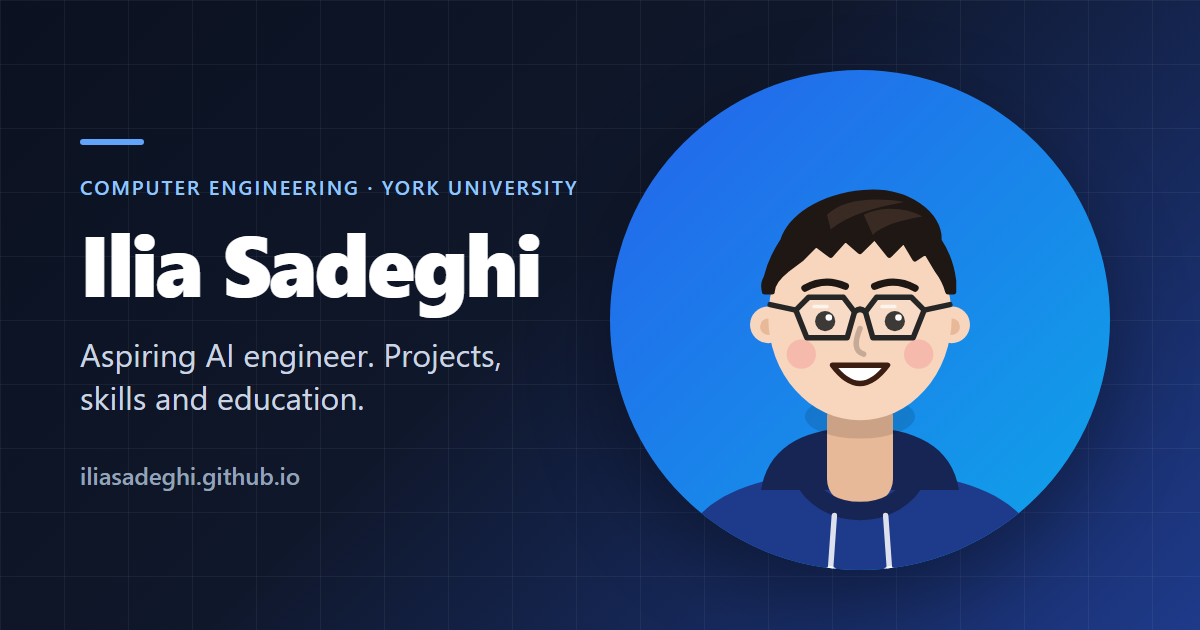
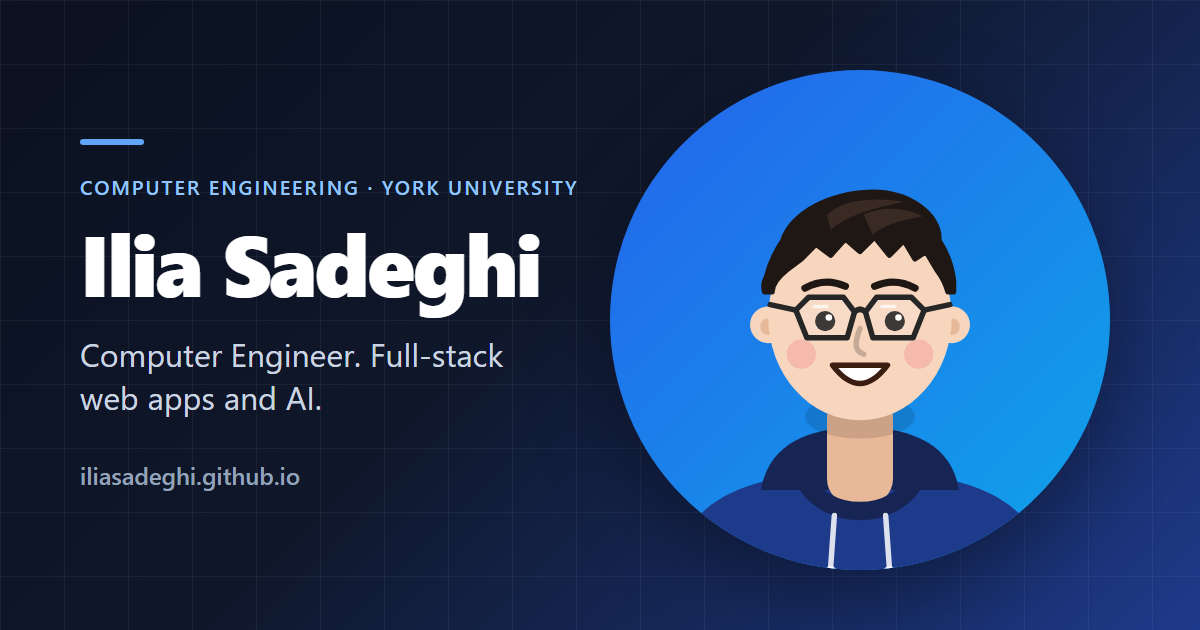
Present as Computer Engineer and update PitchIQ
- Hero, About, meta tags and preview image now say "Computer Engineer at York University"
- Remove first-year, age and "aspiring" wording; replace stats with York U, full-stack stack and live project count
- Education: drop dates, year status and coursework; "Currently learning" becomes "Focus areas"
- Contact and portrait badge: open to opportunities
- PitchIQ: new screenshot and description for the competitive quiz redesign

Changed region(s): [[0.0617, 0.5429, 0.4317, 0.6635]]

diff --git a/index.html b/index.html
@@ -3,8 +3,8 @@
 <head>
   <meta charset="utf-8">
   <meta name="viewport" content="width=device-width, initial-scale=1">
-  <title>Ilia Sadeghi | Computer Engineering Student &amp; Project Portfolio</title>
-  <meta name="description" content="Portfolio of Ilia Sadeghi, a first-year computer engineering student at York University who builds things and aims to become an AI engineer.">
+  <title>Ilia Sadeghi | Computer Engineer</title>
+  <meta name="description" content="Portfolio of Ilia Sadeghi, a computer engineer at York University who builds full-stack web applications with React, TypeScript and Supabase, with a focus on artificial intelligence.">
   <meta name="theme-color" content="#f8fafc" media="(prefers-color-scheme: light)">
   <meta name="theme-color" content="#0b1120" media="(prefers-color-scheme: dark)">
   <meta name="author" content="Ilia Sadeghi">
@@ -14,15 +14,15 @@
   <!-- Open Graph / Twitter -->
   <meta property="og:type" content="website">
   <meta property="og:title" content="Ilia Sadeghi | Project Portfolio">
-  <meta property="og:description" content="First-year computer engineering student who builds things. Explore my projects.">
+  <meta property="og:description" content="Computer engineer at York University building full-stack web apps with React, TypeScript and Supabase. Explore my projects.">
   <meta property="og:url" content="https://iliasadeghi.github.io/">
   <meta property="og:image" content="https://iliasadeghi.github.io/assets/images/og-image.png">
   <meta property="og:image:width" content="1200">
   <meta property="og:image:height" content="630">
-  <meta property="og:image:alt" content="Ilia Sadeghi, computer engineering student who builds things">
+  <meta property="og:image:alt" content="Ilia Sadeghi, computer engineer at York University">
   <meta name="twitter:card" content="summary_large_image">
   <meta name="twitter:title" content="Ilia Sadeghi | Project Portfolio">
-  <meta name="twitter:description" content="First-year computer engineering student who builds things. Explore my projects.">
+  <meta name="twitter:description" content="Computer engineer at York University building full-stack web apps with React, TypeScript and Supabase. Explore my projects.">
   <meta name="twitter:image" content="https://iliasadeghi.github.io/assets/images/og-image.png">
 
   <!-- Inline SVG favicon -->
@@ -135,11 +135,10 @@
       <div class="hero__bg" aria-hidden="true"></div>
       <div class="container hero__layout">
         <div class="hero__inner">
-          <p class="eyebrow">Computer Engineering &middot; York University</p>
+          <p class="eyebrow">Hi, I&rsquo;m</p>
           <h1 id="hero-title">Ilia Sadeghi</h1>
-          <p class="hero__role">Aspiring <span class="accent-text">AI Engineer</span></p>
-          <!-- TODO: replace tagline / supporting sentence if you like -->
-          <p class="hero__lead">First-year computer engineering student who builds things. I&rsquo;m 18, curious about how software meets hardware, and heading toward a career as an AI engineer.</p>
+          <p class="hero__role">Computer Engineer <span class="hero__role-at accent-text">at York University</span></p>
+          <p class="hero__lead">I design and build full-stack web applications with React, TypeScript and Supabase, with a focus on artificial intelligence and intelligent systems.</p>
           <div class="hero__cta">
             <a class="btn btn--primary" href="#projects">View projects</a>
             <a class="btn btn--ghost" href="#contact">Get in touch</a>
@@ -191,7 +190,7 @@
             <g class="float float--d">
               <rect class="art-card" x="6" y="262" width="172" height="38" rx="19"/>
               <circle class="art-dot-accent" cx="30" cy="281" r="5"/>
-              <text class="art-text" x="44" y="286">Year 1 &middot; CompE</text>
+              <text class="art-text" x="44" y="286">CompE &middot; York U</text>
             </g>
             <g class="float float--b">
               <circle class="art-chip" cx="70" cy="392" r="30"/>
@@ -212,7 +211,7 @@
       <div class="container">
         <div class="section__head reveal">
           <h2 id="projects-title">Projects</h2>
-          <p class="section__sub">A selection of things I&rsquo;ve built and learned from. Click a card for details.</p>
+          <p class="section__sub">Selected work I&rsquo;ve designed, built and shipped. Click a card for details.</p>
         </div>
 
         <div class="filters reveal" role="group" aria-label="Filter projects by technology" id="filters"></div>
@@ -254,22 +253,20 @@
             <g class="art-sparkle art-sparkle--white"><path d="M338 150l6 14 14 6-14 6-6 14-6-14-14-6 14-6z"/></g>
             <g class="art-sparkle art-sparkle--white art-sparkle--s"><path d="M62 120l4 9 9 4-9 4-4 9-4-9-9-4 9-4z"/></g>
           </svg>
-          <figcaption class="portrait__badge"><span class="portrait__dot" aria-hidden="true"></span>Open to internships</figcaption>
+          <figcaption class="portrait__badge"><span class="portrait__dot" aria-hidden="true"></span>Open to opportunities</figcaption>
         </figure>
 
         <div class="about__content">
           <div class="about__text reveal">
             <h2 id="about-title">About me</h2>
-            <!-- TODO: replace bio -->
-            <p>I&rsquo;m an 18-year-old first-year computer engineering student at York University. I like turning ideas into working projects, from small web apps to sensors and machine-learning experiments.</p>
-            <p>My goal is to work as an AI engineer: building systems that learn, and making them useful, reliable and understandable.</p>
+            <p>I&rsquo;m a computer engineer at York University. I design and build complete products, from the interface to the database, and I care about software that is fast, accessible and easy to use.</p>
+            <p>My focus is artificial intelligence: building systems that learn, and making them useful, reliable and understandable.</p>
           </div>
 
-          <!-- TODO: update these facts -->
           <ul class="stats reveal" aria-label="At a glance">
-            <li class="stat"><span class="stat__num">18</span><span class="stat__label">years old</span></li>
-            <li class="stat"><span class="stat__num">Year&nbsp;1</span><span class="stat__label">York University</span></li>
-            <li class="stat"><span class="stat__num" id="stat-projects">5</span><span class="stat__label">projects shown</span></li>
+            <li class="stat"><span class="stat__num">York U</span><span class="stat__label">Computer Engineering</span></li>
+            <li class="stat"><span class="stat__num">Full-stack</span><span class="stat__label">React &middot; TypeScript &middot; Supabase</span></li>
+            <li class="stat"><span class="stat__num" id="stat-projects">3</span><span class="stat__label">live projects</span></li>
           </ul>
 
         </div>
@@ -291,7 +288,7 @@
                 <span class="skill-card__icon line-icon" aria-hidden="true"><svg viewBox="0 0 24 24"><path d="M8 6l-6 6 6 6M16 6l6 6-6 6"/></svg></span>
                 <h3>Languages</h3>
               </div>
-              <p class="skill-card__desc">Core programming languages from coursework and personal projects.</p>
+              <p class="skill-card__desc">Core programming languages I use across my projects.</p>
               <ul class="chip-list" aria-label="Languages">
                 <li>Python</li><li>C</li><li>C++</li><li>JavaScript</li><li>Java</li><li>SQL</li>
               </ul>
@@ -361,12 +358,12 @@
       </div>
     </section>
 
-    <!-- EDUCATION. TODO: confirm the dates and coursework; add earlier schooling or certificates if you like -->
+    <!-- EDUCATION. Copy the <article class="edu-card"> block to add another school or certificate -->
     <section class="section section--alt" id="education" aria-labelledby="education-title">
       <div class="container">
         <div class="section__head reveal">
           <h2 id="education-title">Education</h2>
-          <p class="section__sub">Where I&rsquo;m building my foundation in engineering and computing.</p>
+          <p class="section__sub">My academic background in engineering and computing.</p>
         </div>
 
         <div class="education">
@@ -377,31 +374,23 @@
                 <h3>Bachelor of Engineering (BEng), Computer Engineering</h3>
                 <p class="edu-card__school">York University &middot; Lassonde School of Engineering</p>
                 <div class="edu-card__meta">
-                  <span class="line-icon"><svg viewBox="0 0 24 24" aria-hidden="true"><rect x="3" y="5" width="18" height="16" rx="2"/><path d="M3 10h18M8 3v4M16 3v4"/></svg>Sep 2026 &ndash; Expected 2030</span>
                   <span class="line-icon"><svg viewBox="0 0 24 24" aria-hidden="true"><path d="M12 21s-7-6.2-7-11a7 7 0 0 1 14 0c0 4.8-7 11-7 11z"/><circle cx="12" cy="10" r="2.5"/></svg>Toronto, ON</span>
-                  <span class="status-pill">Year 1 &middot; In progress</span>
                 </div>
               </div>
             </div>
-            <p class="edu-card__summary">Building a strong foundation in programming, mathematics and electronics, with a focus on artificial intelligence and intelligent systems.</p>
-            <div>
-              <h4 class="subhead">Relevant coursework</h4>
-              <ul class="chip-list" aria-label="Relevant coursework">
-                <li>Programming fundamentals</li><li>Object-oriented programming</li><li>Calculus</li><li>Linear algebra</li><li>Physics</li><li>Engineering design</li>
-              </ul>
-            </div>
+            <p class="edu-card__summary">Computer engineering covering software, hardware and the systems that connect them, with a focus on artificial intelligence and intelligent systems.</p>
           </article>
 
           <aside class="focus-card reveal" aria-labelledby="focus-title">
-            <h3 id="focus-title">Currently learning</h3>
+            <h3 id="focus-title">Focus areas</h3>
             <ul class="focus-list">
               <li>
                 <span class="line-icon" aria-hidden="true"><svg viewBox="0 0 24 24"><circle cx="5" cy="6" r="2"/><circle cx="5" cy="18" r="2"/><circle cx="12" cy="12" r="2"/><circle cx="19" cy="12" r="2"/><path d="M7 6l3.5 5M7 18l3.5-5M14 12h3"/></svg></span>
-                <div><strong>Machine learning fundamentals</strong><span class="focus-list__note">Neural networks, model evaluation and PyTorch.</span></div>
+                <div><strong>Artificial intelligence</strong><span class="focus-list__note">Machine learning, neural networks and PyTorch.</span></div>
               </li>
               <li>
-                <span class="line-icon" aria-hidden="true"><svg viewBox="0 0 24 24"><path d="M12 3v4M12 17v4M5 12H3M21 12h-2"/><rect x="7" y="7" width="10" height="10" rx="2"/></svg></span>
-                <div><strong>Data structures &amp; algorithms</strong><span class="focus-list__note">Writing efficient, well-tested code.</span></div>
+                <span class="line-icon" aria-hidden="true"><svg viewBox="0 0 24 24"><rect x="3" y="4" width="18" height="7" rx="2"/><rect x="3" y="13" width="18" height="7" rx="2"/><path d="M7 7.5h.01M7 16.5h.01"/></svg></span>
+                <div><strong>Full-stack web applications</strong><span class="focus-list__note">React, TypeScript, Supabase and real-time features.</span></div>
               </li>
               <li>
                 <span class="line-icon" aria-hidden="true"><svg viewBox="0 0 24 24"><rect x="6" y="6" width="12" height="12" rx="2"/><path d="M9 2v4M15 2v4M9 18v4M15 18v4M2 9h4M2 15h4M18 9h4M18 15h4"/></svg></span>
@@ -441,7 +430,7 @@
             </g>
           </svg>
           <h2 id="contact-title">Let&rsquo;s build something together</h2>
-          <p>I&rsquo;m open to internships, collaborations and good conversations about AI and engineering. The fastest way to reach me is email.</p>
+          <p>I&rsquo;m open to new opportunities, collaborations and conversations about AI and software engineering. The fastest way to reach me is email.</p>
           <div class="contact__actions">
             <a class="btn btn--primary" href="mailto:iliasadeghi.ca@gmail.com">
               <svg viewBox="0 0 24 24" width="20" height="20" fill="none" stroke="currentColor" stroke-width="2" stroke-linecap="round" stroke-linejoin="round" aria-hidden="true"><rect x="3" y="5" width="18" height="14" rx="2"/><path d="M3 7l9 6 9-6"/></svg>

diff --git a/js/projects.js b/js/projects.js
@@ -35,12 +35,12 @@ const PROJECTS = [
     // Real project: https://github.com/iliasadeghi/pitchiq
     title: "PitchIQ",
     description:
-      "A landing page for a concept soccer-learning app, with an interactive quiz, topic filter, pricing toggle and FAQ.",
+      "A competitive soccer quiz experience where fans duel head-to-head, with a playable timed duel, leaderboard, ranked divisions and a Weekly Cup.",
     longDescription:
-      "A frontend-only landing page for PitchIQ, a concept app that teaches soccer rules, tactics and history through bite-sized lessons and daily quizzes. The quiz, topic filter, pricing toggle, FAQ accordion, waitlist form and mobile menu all run in the browser, with no backend.\n\nBuilt with React 18, TypeScript (strict mode), Vite, Tailwind CSS and Framer Motion, with original inline SVG artwork, light and dark themes, lazy-loaded sections and accessibility linting. A GitHub Actions workflow lints, builds and deploys it to GitHub Pages on every push.",
+      "Landing page for PitchIQ, a concept app where fans duel each other on players, teams, cups and legendary matches. It includes a playable head-to-head duel against a simulated rival: pick a category, then answer five timed questions, scoring for accuracy and speed, with keyboard controls and a relaxed mode that turns the timer off. Around it sit a live results ticker, a leaderboard with Global, This week and Friends tabs, ranked divisions and badges, and a Weekly Cup with a countdown and bracket.\n\nBuilt with React 18, TypeScript (strict mode), Vite, Tailwind CSS and Framer Motion, with accessibility linting. A GitHub Actions workflow builds and deploys it to GitHub Pages on every push.",
     tags: ["TypeScript", "React", "Tailwind", "Web"],
     image: "assets/images/pitchiq.jpg",
-    imageAlt: "Screenshot of the PitchIQ landing page: \"Know the game inside out.\" beside a phone showing a daily soccer quiz",
+    imageAlt: "Screenshot of the PitchIQ page: \"Prove your ball knowledge.\" beside a live ranked duel scoreboard",
     liveUrl: "https://iliasadeghi.github.io/pitchiq/",
     codeUrl: "https://github.com/iliasadeghi/pitchiq",
     featured: false

diff --git a/css/styles.css b/css/styles.css
@@ -436,6 +436,7 @@ button { font: inherit; color: inherit; cursor: pointer; }
   letter-spacing: -0.02em;
   line-height: 1.2;
 }
+.hero__role-at { display: block; }
 .hero__lead { max-width: 38rem; font-size: var(--fs-lg); color: var(--color-muted); }
 .hero__cta { display: flex; flex-wrap: wrap; gap: var(--space-3); margin-top: var(--space-2); }
 
@@ -849,6 +850,7 @@ button { font: inherit; color: inherit; cursor: pointer; }
 .focus-card {
   position: relative;
   display: grid;
+  align-content: start;
   gap: var(--space-5);
   padding: var(--space-6) var(--space-5);
   border: 1px solid var(--color-border);

diff --git a/js/main.js b/js/main.js
@@ -568,7 +568,7 @@
     updateProgress();
   }
 
-  /* ---------- keep the "projects shown" stat in sync with the data ---------- */
+  /* ---------- keep the "live projects" stat in sync with the data ---------- */
 
   var statProjects = $('#stat-projects');
   if (statProjects && projects.length) statProjects.textContent = String(projects.length);

diff --git a/README.md b/README.md
@@ -68,9 +68,9 @@ The boy in the nav, hero, About and Contact sections is one inline SVG drawn onc
 Search the project for `TODO` to find everything to personalise:
 
 - LinkedIn URL: `index.html`, Contact section (the GitHub link already points to github.com/iliasadeghi)
-- Bio and quick facts: `index.html`, About section (the "projects shown" number updates itself from `js/projects.js`)
+- Bio and quick facts: `index.html`, About section (the "live projects" number updates itself from `js/projects.js`)
 - Skills: `index.html`, Skills section. Six category cards (Languages, Frontend, Backend, AI & Machine Learning, Hardware & Embedded, Tools & Workflow); edit the `<li>` items in each card's list, or copy a whole `<li class="reveal">` card to add a category
-- Education: `index.html`, Education section. Confirm the degree dates (currently "Sep 2026 – Expected 2030") and the coursework list; copy the `<article class="edu-card">` block to add another school or certificate
+- Education: `index.html`, Education section. The degree card and the "Focus areas" list; copy the `<article class="edu-card">` block to add another school or certificate
 - Canonical URL and social preview image (`og:image`, `twitter:image`): already set for `https://iliasadeghi.github.io/` in the `<head>` of `index.html`; change them if you move to another address. The preview image is `assets/images/og-image.png` (1200x630)
 - Real reviews in `js/reviews.js` (the list is empty, so the Reviews section is hidden until you add some)
 
